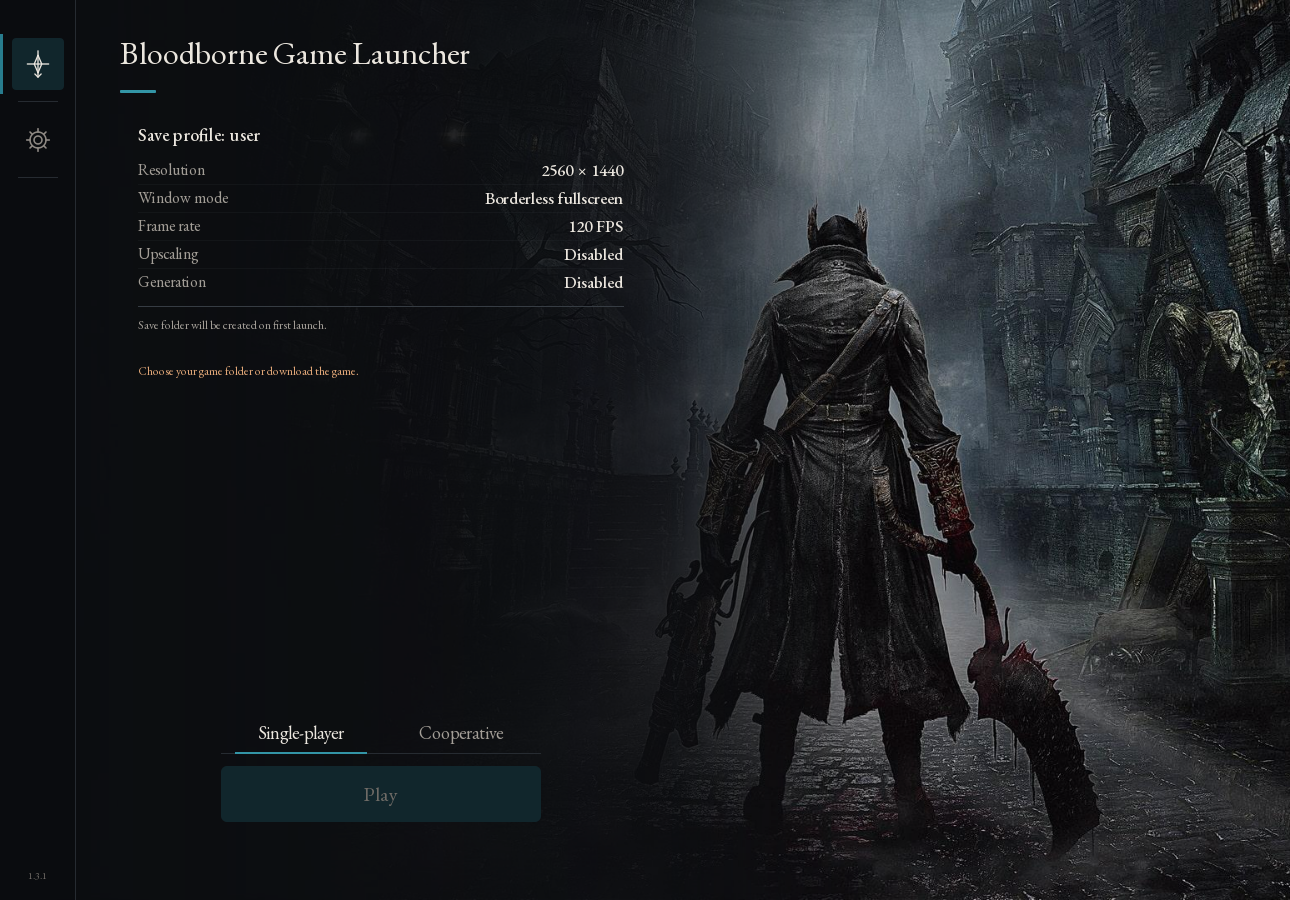
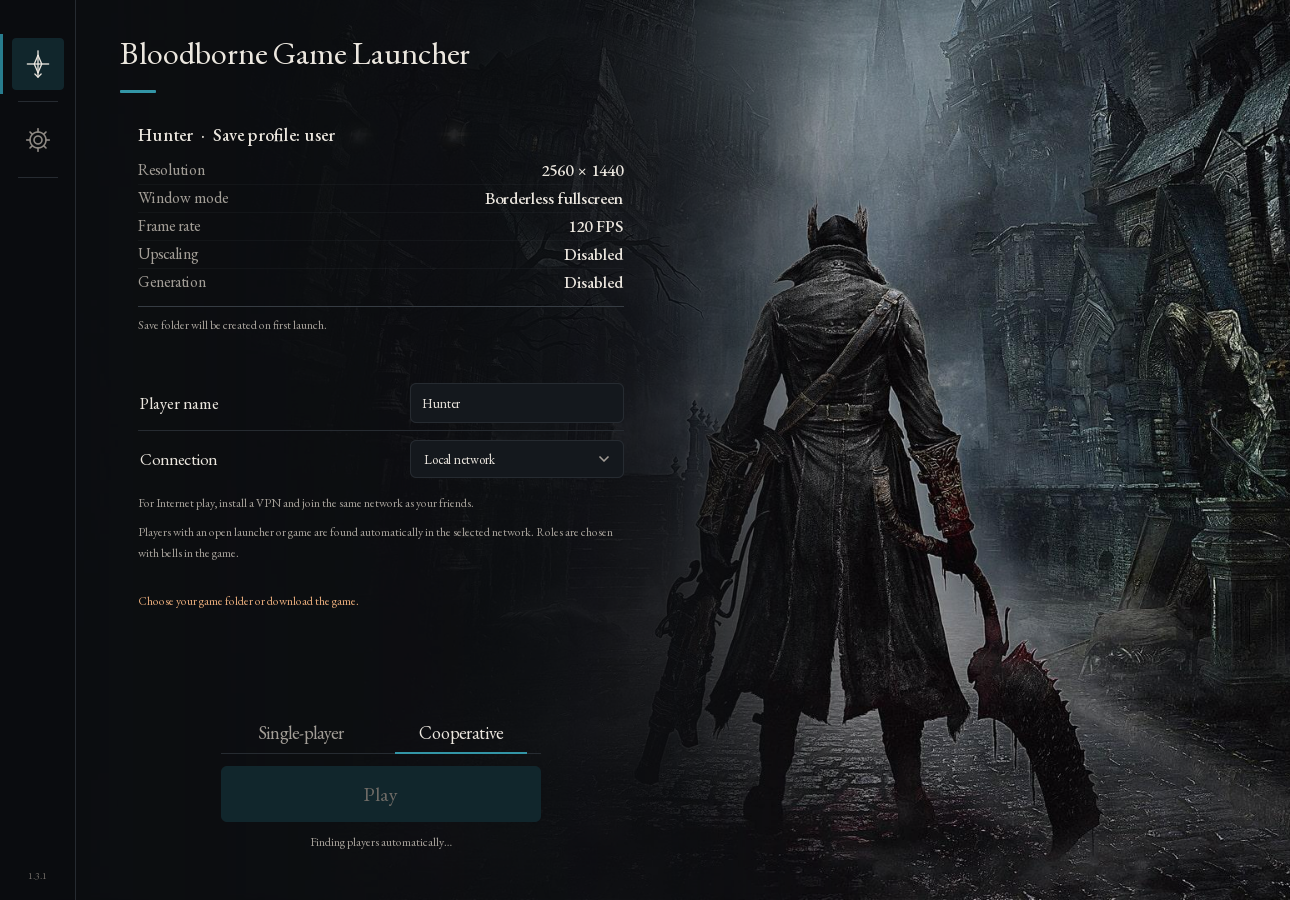
docs: show co-op home and graphics settings in READMEs

diff --git a/tools/capture_release_screenshots.py b/tools/capture_release_screenshots.py
@@ -41,6 +41,8 @@ def main():
             # Example display paths only; no reads/writes or discovery at these paths.
             backend.app.update(player_name='Hunter', mods_dir='C:/Games/BBGL/mods',
                                patches_dir='C:/Games/BBGL/profile/patches')
+            if not args.review:
+                backend.app.update(play_mode='coop', coop_name='Hunter')
             backend._mods = [dict(name='Diamond Sword', enabled=False)]
             backend._coop_inventory_ready = True
             for timer in (backend._party_timer, backend._party_network_timer, backend._addons_timer):
@@ -57,9 +59,7 @@ def main():
             workspace = window.findChild(QObject, 'settingsWorkspace')
             output = args.output.resolve()
             output.mkdir(parents=True, exist_ok=True)
-            shots = [('home', None, None), ('graphics', 'Visuals', 'Display & frame rate'),
-                     ('coop', 'Co-op', 'Seamless co-op'),
-                     ('mods', 'Mods & Patches', 'Installed mods')]
+            shots = [('home', None, None), ('graphics', 'Visuals', 'Display & frame rate')]
             if args.review:
                 import bbport_launcher_backend as model
                 shots = [('home', None, None)]

diff --git a/docs/screenshots/README.md b/docs/screenshots/README.md
@@ -6,8 +6,6 @@
 out/qt-venv/Scripts/python.exe tools/capture_release_screenshots.py
 ```
 
-Используется временный профиль без доступа к игре и сетевого обнаружения.
-Имя Hunter и пути C:/Games/BBGL — примеры; установленный мод Diamond Sword
-показан выключенным, как в новом релизном профиле. Главный экран честно
-показывает состояние до выбора игры. Это снимки интерфейса, не подтверждение
-подключения или игрового результата. После генерации проверить PNG глазами.
+Скрипт снимает главный экран в совместном режиме и настройки изображения.
+Он использует временный профиль без доступа к игре и сетевого обнаружения.
+На главном экране показан пример профиля Hunter до выбора папки игры.

diff --git a/README.md b/README.md
@@ -46,15 +46,11 @@ Bundled mod and P2P integration, personal versus main-story progress, seamless c
 
 ## Launcher
 
-The redesigned interface supports English and Russian. Screenshots show the English interface.
+The interface supports English and Russian. The screenshots show the cooperative home screen and graphics settings in English.
 
-![Home](docs/screenshots/launcher-home.png)
+![Home screen in cooperative mode](docs/screenshots/launcher-home.png)
 
 ![Graphics settings](docs/screenshots/launcher-graphics.png)
-
-![Co-op connection](docs/screenshots/launcher-coop.png)
-
-![Mods](docs/screenshots/launcher-mods.png)
 
 ## Start playing
 
